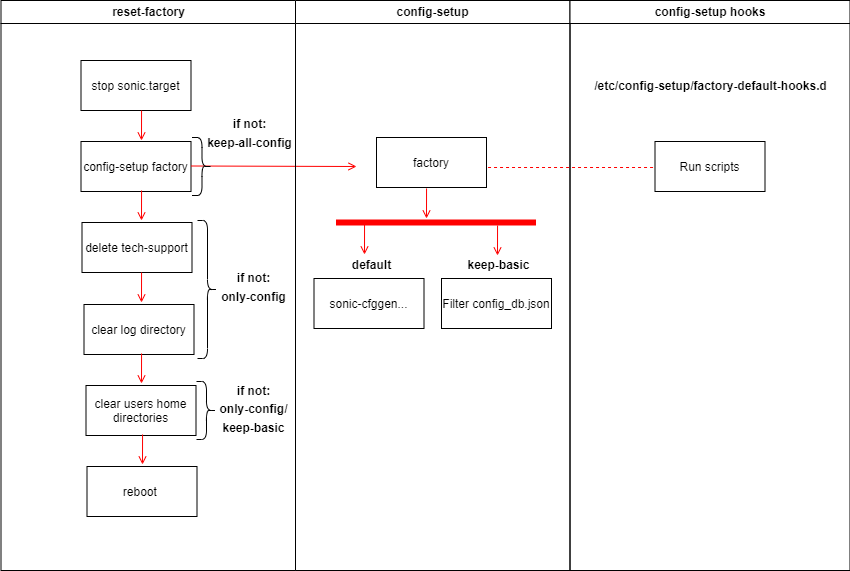
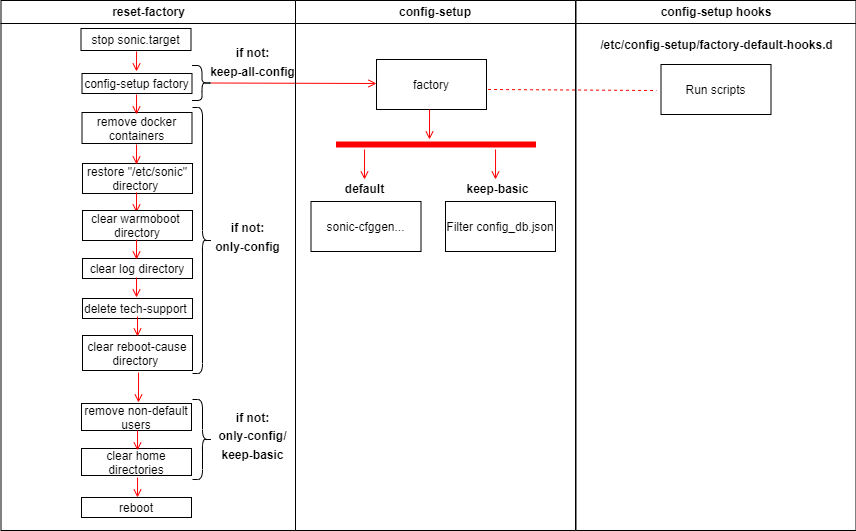
HLD Fixes

diff --git a/doc/reset_factory/ResetFactoryHLD.md b/doc/reset_factory/ResetFactoryHLD.md
@@ -13,6 +13,7 @@
 		* 1.5.2. [Configuration and Management Requirements](#ConfigurationManagementRequirements) 
 * 2. [Design](#Design)
 	* 2.1. [High-Level Design](#High-LevelDesign)
+  * 2.2. [Users Defaults](#UsersDefaults)
 * 3. [Functionality](#Functionality)
 		* 3.1. [Reset-Factory](#Reset-Factory)
 		* 3.2. [Config-setup Factory](#Config-setup-Factory) 
@@ -45,13 +46,19 @@ A factory reset is a process that restores the switch to its original manufactur
 ####  1.5.1. <a name='FunctionalRequirements'></a>Functional requirements
 1. It should support resetting configuration to factory default settings.
 
-2. It should clear logs, tech-support and reboot-cause files, users history files and home directories.
+2. It should clear logs, tech-support, reboot-cause files, warmboot files, 
+users history files and home directories.
 
-3. It should reboot the system to load and apply the new configuration.
+3. It should delete all non-default users and restore default passwords of default users.
 
-4. It should stop sonic.target to ensure that files are not deleted while other daemons are utilizing them.
+4. It should restore "/etc/sonic" directory to factory folder (Clear the directory in overlayfs upperdir).
+except SONiC immutable variables file "sonic-environment"
 
-5. it should allow users/application to create their own factory default configurations or
+5. It should reboot the system to load and apply the new configuration.
+
+6. It should stop sonic.target to ensure that files are not deleted while other daemons are utilizing them.
+
+7. it should allow users/application to create their own factory default configurations or
 extend the reset factory functionality.
 
 
@@ -60,7 +67,7 @@ We will create a command line tool /usr/bin/reset-factory which should provide f
 
 1. default: reset configurations to factory default, clear all system logs and files.
 
-2. keep-basic: preserves basic configurations only after boot. Logs and files will be deleted users history files and home directories.
+2. keep-basic: preserves basic configurations only after boot. Logs and files will be deleted except users history files and home directories.
 
 3. keep-all-config: preserves all configurations after boot. Logs and files will be deleted.
 
@@ -80,8 +87,8 @@ In addition, it will clear logs, tech-support and reboot-cause files, users hist
 Steps:
 
 1. Stops sonic.target: 
-
-systemctl stop sonic.target
+* monit unmonitor container_checker
+* systemctl stop sonic.target
 
 2. If not "keep-all-config":
 
@@ -89,10 +96,14 @@ config-setup factory <None/keep-basic/only-config>
 
 3. If not ("only-config" or “keep-basic”):
 
-* Delete bash , vim and python history files under "/home".
+* Delete all non-default users and restore default passwords of default users.
+* Delete bash, vim and python history files under "/home".
 * Delete any non-dotfiles in the home directories.
 
 4. If not "only-config":
+* Remove all docker containers
+* Restore "/etc/sonic" directory to factory folder (Clear the directory in overlayfs upperdir)
+* Delete all files under "/host/warmboot"
 * Delete tech-support files under "/var/dump/"
 * Delete all files under "/var/log"
 * Delete all files and symlinks under "/host/reboot-cause/"
@@ -103,6 +114,20 @@ It will allow user to track operations such as "reset-factory".
 
 6. Reboot
 
+###  2.2 <a name='UsersDefaults'></a>Users Defaults
+
+During build, we will create a new file "/etc/sonic/default_users.json" that will store
+default user accounts names and default hashed passwords.
+The file will have same permissions as /etc/shadow "-rw-------" (600).
+```
+{
+    "admin": {
+        "password": "$y$j9T$qGjjyhXSHtuHwowV3DE44.$wrDK6/vecdYIE8ujXyVPkGHvlDHP.ySCsBTLvOdg.31"
+    }
+}
+```
+We will remove all non-default user accounts (e.g. 1000 < UID <= 6000),
+and we will set the default password for default users.
 
 ## 3 <a name='Functionality'></a>Functionality
 ###  3.1 <a name='Reset-Factory'></a>Reset-Factory
@@ -168,6 +193,7 @@ root@host:~$ sudo reset-factory --help
         to /etc/sonic/config_db.json.
         Clears logs, system files and reboot the system.
 
+        Default          - Reset configurations to factory default. Logs and files will be deleted.
         keep-all-config  - Preserves all configurations after boot. Logs and files will be deleted.
         only-config      - Reset configurations to factory default. Logs and files will be preserved.
         keep-basic       - Preserves basic configurations only after boot. Logs and files will be deleted.
